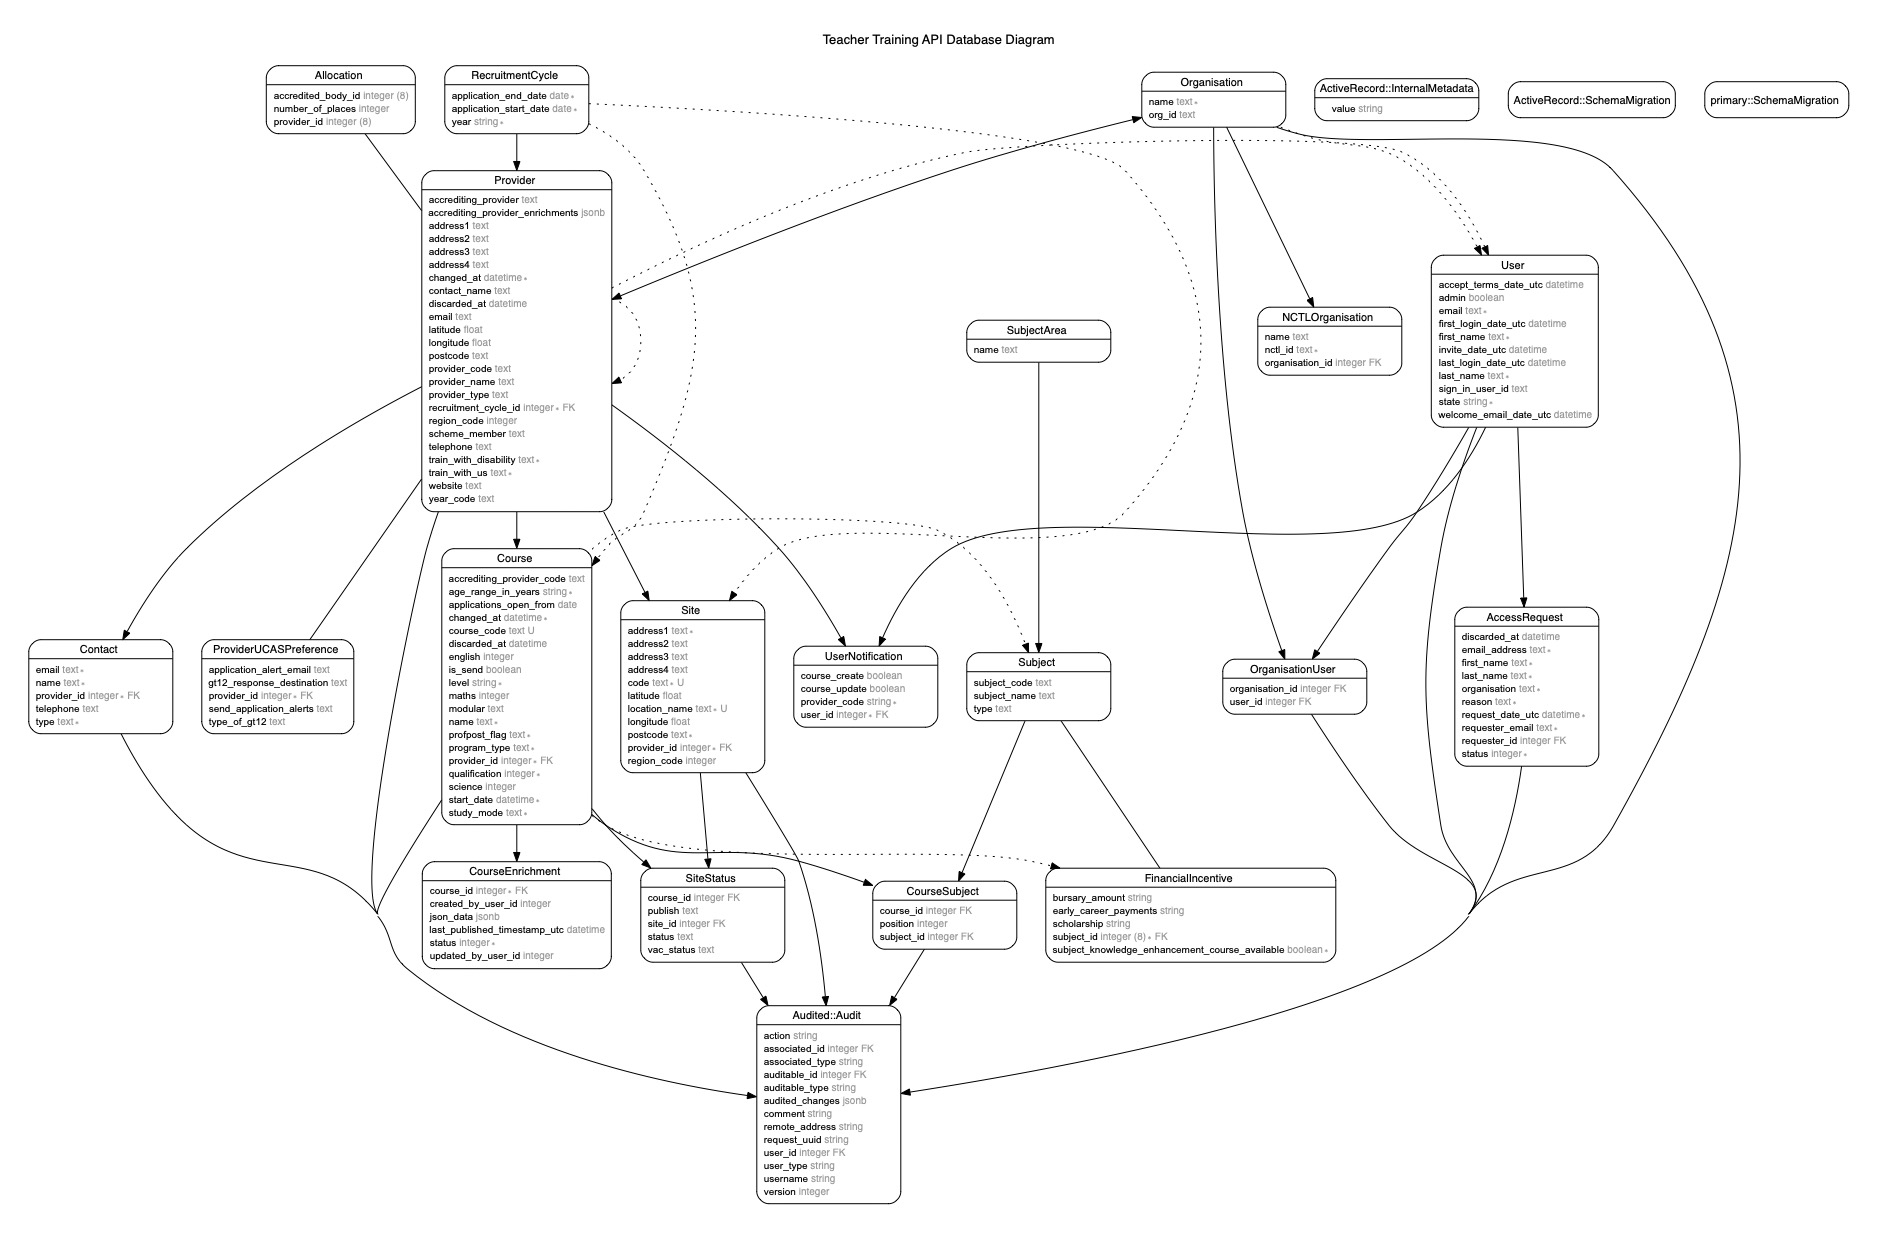
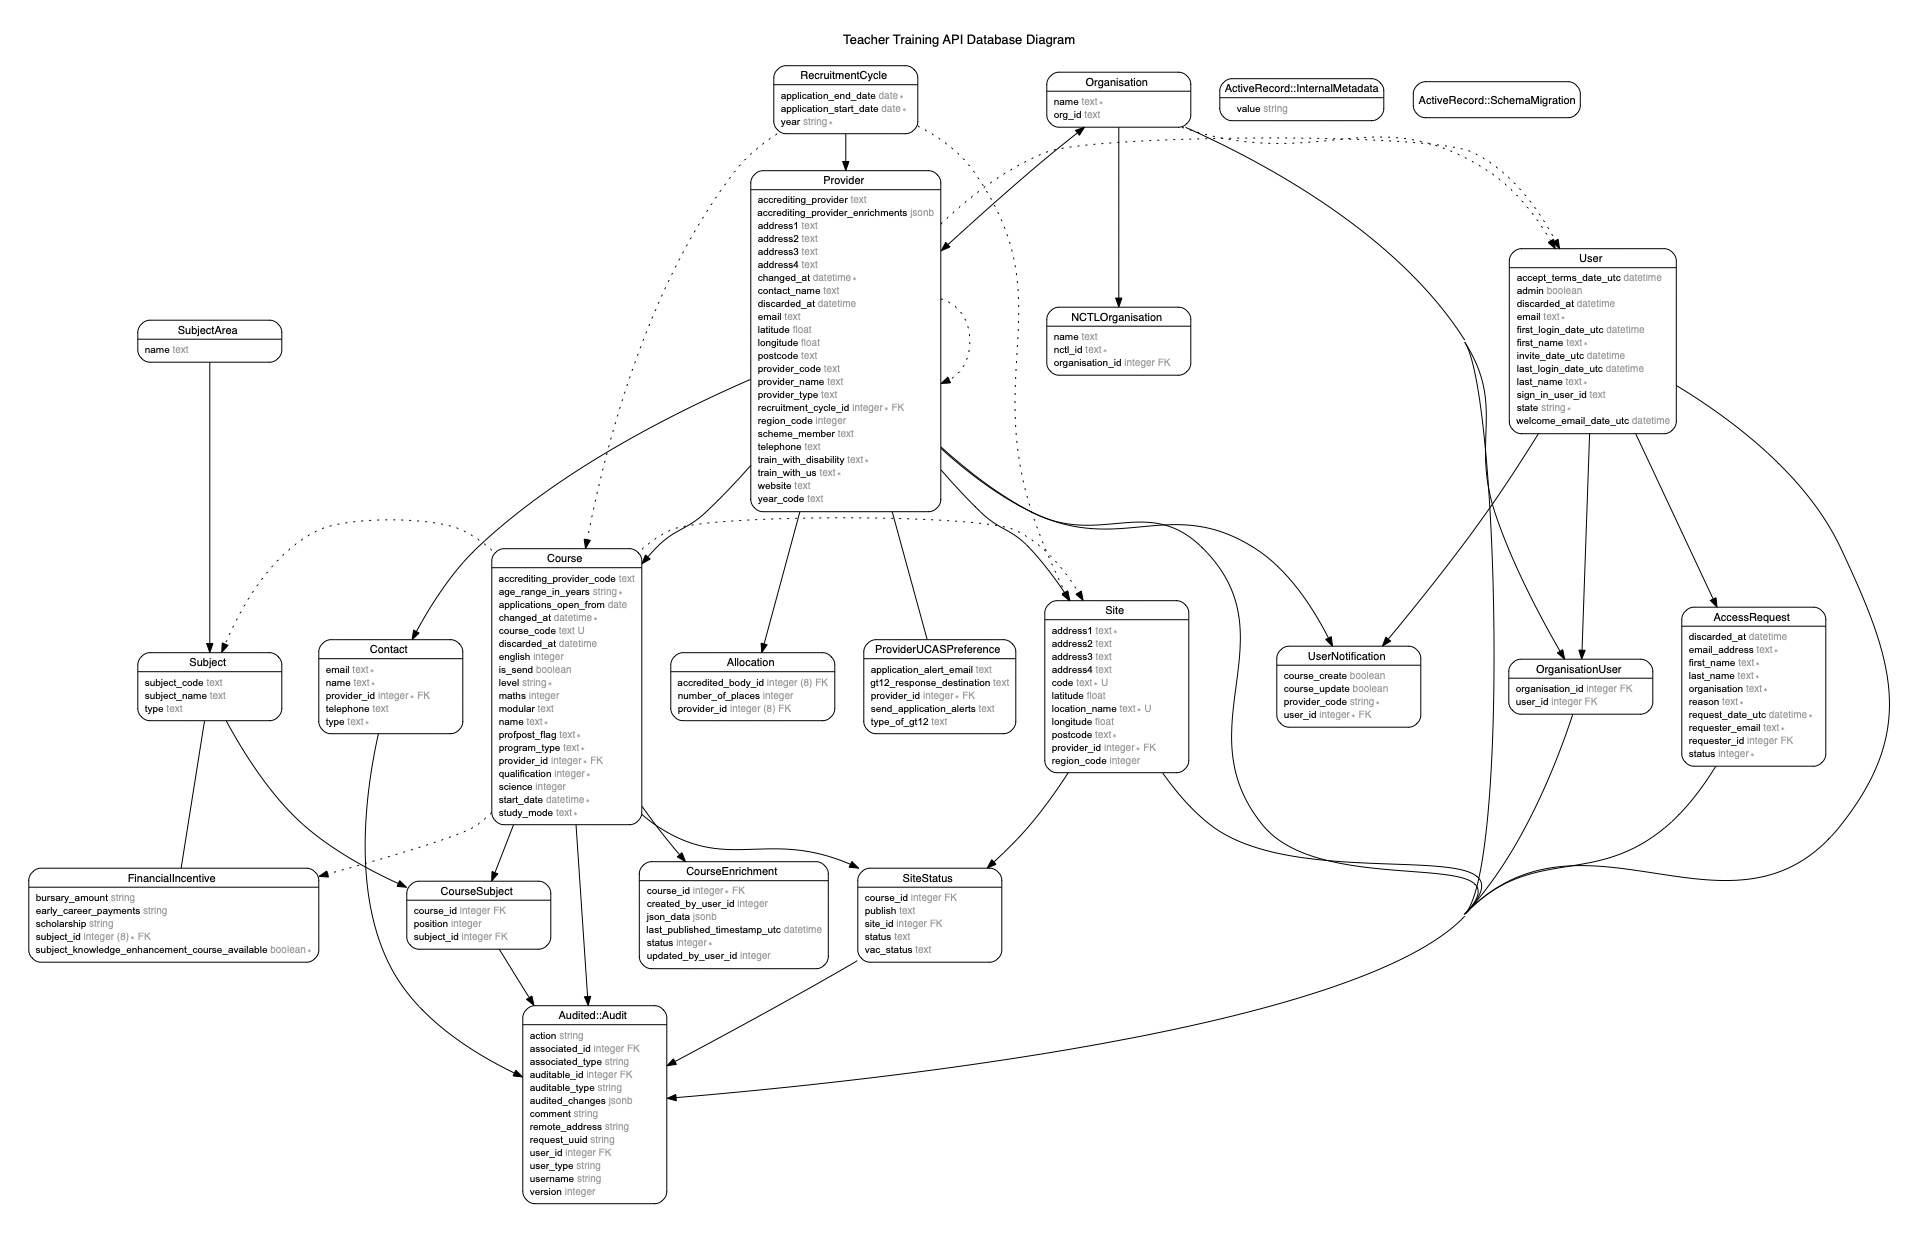
[3281] Add discard to users

diff --git a/spec/models/user_spec.rb b/spec/models/user_spec.rb
@@ -4,6 +4,7 @@
 #
 #  accept_terms_date_utc  :datetime
 #  admin                  :boolean          default(FALSE)
+#  discarded_at           :datetime
 #  email                  :text
 #  first_login_date_utc   :datetime
 #  first_name             :text
@@ -17,7 +18,8 @@
 #
 # Indexes
 #
-#  IX_user_email  (email) UNIQUE
+#  IX_user_email               (email) UNIQUE
+#  index_user_on_discarded_at  (discarded_at)
 #
 
 require "rails_helper"
@@ -167,6 +169,38 @@ describe User, type: :model do
 
       it "removes the right organisation"do
         expect(subject.reload.organisations).to eq([other_organisation])
+      end
+    end
+  end
+
+  describe "#discard" do
+    subject { create(:user) }
+
+    context "before discarding" do
+      its(:discarded?) { should be false }
+
+      it "is in kept" do
+        expect(User.kept).to eq([subject])
+      end
+
+      it "is not in discarded" do
+        expect(User.discarded).to be_empty
+      end
+    end
+
+    context "after discarding" do
+      before do
+        subject.discard
+      end
+
+      its(:discarded?) { should be true }
+
+      it "is not in kept" do
+        expect(User.kept).to be_empty
+      end
+
+      it "is in discarded" do
+        expect(User.discarded).to eq([subject])
       end
     end
   end

diff --git a/db/schema.rb b/db/schema.rb
@@ -10,7 +10,7 @@
 #
 # It's strongly recommended that you check this file into your version control system.
 
-ActiveRecord::Schema.define(version: 2020_04_09_054023) do
+ActiveRecord::Schema.define(version: 2020_04_23_174758) do
 
   # These are extensions that must be enabled in order to support this database
   enable_extension "pg_buffercache"
@@ -310,6 +310,8 @@ ActiveRecord::Schema.define(version: 2020_04_09_054023) do
     t.datetime "accept_terms_date_utc"
     t.string "state", null: false
     t.boolean "admin", default: false
+    t.datetime "discarded_at"
+    t.index ["discarded_at"], name: "index_user_on_discarded_at"
     t.index ["email"], name: "IX_user_email", unique: true
   end
 

diff --git a/app/models/user.rb b/app/models/user.rb
@@ -4,6 +4,7 @@
 #
 #  accept_terms_date_utc  :datetime
 #  admin                  :boolean          default(FALSE)
+#  discarded_at           :datetime
 #  email                  :text
 #  first_login_date_utc   :datetime
 #  first_name             :text
@@ -17,10 +18,12 @@
 #
 # Indexes
 #
-#  IX_user_email  (email) UNIQUE
+#  IX_user_email               (email) UNIQUE
+#  index_user_on_discarded_at  (discarded_at)
 #
 
 class User < ApplicationRecord
+  include Discard::Model
   include AASM
 
   has_many :organisation_users

diff --git a/spec/factories/users.rb b/spec/factories/users.rb
@@ -4,6 +4,7 @@
 #
 #  accept_terms_date_utc  :datetime
 #  admin                  :boolean          default(FALSE)
+#  discarded_at           :datetime
 #  email                  :text
 #  first_login_date_utc   :datetime
 #  first_name             :text
@@ -17,7 +18,8 @@
 #
 # Indexes
 #
-#  IX_user_email  (email) UNIQUE
+#  IX_user_email               (email) UNIQUE
+#  index_user_on_discarded_at  (discarded_at)
 #
 
 FactoryBot.define do

diff --git a/db/migrate/20200423174758_add_discarded_at_to_users.rb b/db/migrate/20200423174758_add_discarded_at_to_users.rb
@@ -1,0 +1,6 @@
+class AddDiscardedAtToUsers < ActiveRecord::Migration[6.0]
+  def change
+    add_column :user, :discarded_at, :datetime
+    add_index :user, :discarded_at
+  end
+end
